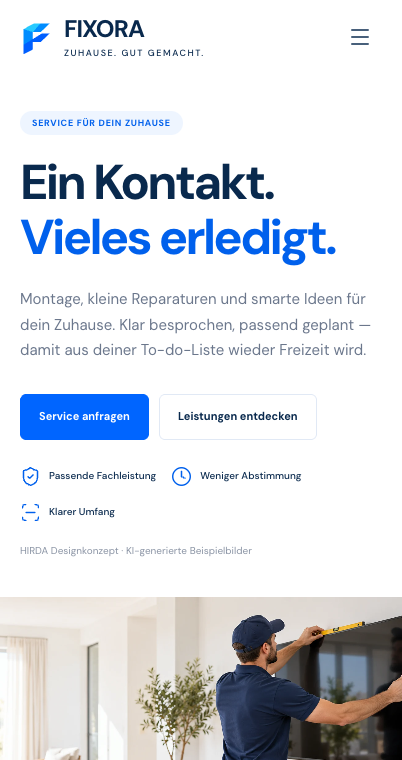
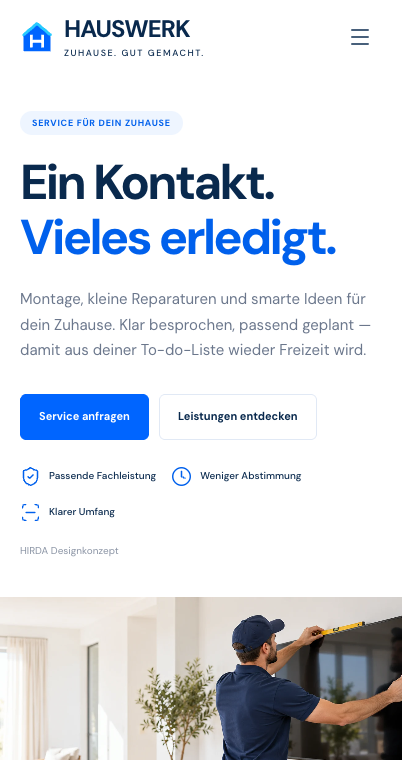
Rename Fixora to Hauswerk and add the house emblem

diff --git a/apps/homeservice/src/data/site.ts b/apps/homeservice/src/data/site.ts
@@ -1,7 +1,7 @@
 import type {TradeSite} from '../../../../packages/ui/trade-types';
 export const site = {
   "kind": "homeservice",
-  "name": "FIXORA",
+  "name": "HAUSWERK",
   "tagline": "Zuhause. Gut gemacht.",
   "eyebrow": "Service für dein Zuhause",
   "headline": [
@@ -10,63 +10,63 @@ export const site = {
   ],
   "description": "Montage, kleine Reparaturen und smarte Ideen für dein Zuhause. Klar besprochen, passend geplant — damit aus deiner To-do-Liste wieder Freizeit wird.",
   "hero": "handyman.webp",
-  "heroAlt": "KI-Visualisierung: ein Monteur richtet einen Fernseher in einem hellen Wohnzimmer aus",
+  "heroAlt": "ein Monteur richtet einen Fernseher in einem hellen Wohnzimmer aus",
   "servicesTitle": "Guter Service für jeden Raum.",
-  "servicesIntro": "Von der ersten Schraube bis zum letzten Handgriff.",
+  "servicesIntro": "Nicht jede Aufgabe braucht ein großes Projekt. Aber jede braucht einen klaren Umfang, passendes Werkzeug und einen sauberen Abschluss.",
   "services": [
     {
       "icon": "tv",
       "title": "TV-Montage",
-      "text": "Halterung und Wandbeschaffenheit vorab besprechen."
+      "text": "Bildhöhe, Halterung und Wandaufbau müssen zusammenpassen. Vor der Montage werden Befestigung, Kabelweg und Gerätegewicht geklärt."
     },
     {
       "icon": "armchair",
       "title": "Möbelmontage",
-      "text": "Regale und Möbel nach deinen Anforderungen planen."
+      "text": "Vom Regal bis zum Sideboard: Modell, Stellplatz und Lieferumfang vorab nennen. Für hohe Möbel wird die passende Kippsicherung mitgedacht."
     },
     {
       "icon": "wifi",
       "title": "Smart Home",
-      "text": "Geräte und Einrichtung aufeinander abstimmen."
+      "text": "Licht, Lautsprecher oder vernetzte Geräte im Alltag sinnvoll verbinden. Vorher werden Hersteller, WLAN und gewünschte Bedienung geklärt."
     },
     {
       "icon": "door-open",
       "title": "Türen & Fenster",
-      "text": "Kleine Einstell- und Instandhaltungsarbeiten prüfen."
+      "text": "Eine klemmende Tür oder ein schwer laufendes Fenster braucht zuerst einen Blick auf Beschläge und Zustand. Der passende Eingriff wird abgestimmt."
     },
     {
       "icon": "panels-top-left",
       "title": "Wand & Oberfläche",
-      "text": "Kleinere Ausbesserungen passend zum Material."
+      "text": "Bohrlöcher, kleine Macken und Übergänge sorgfältig ausbessern. Untergrund, Farbe und gewünschtes Finish bestimmen den Aufwand."
     },
     {
       "icon": "lightbulb",
       "title": "Leuchtenmontage",
-      "text": "Elektrische Arbeiten nur mit passend qualifiziertem Fachpersonal."
+      "text": "Leuchte, Deckenhöhe und Befestigung gemeinsam prüfen. Der elektrische Anschluss erfolgt ausschließlich durch entsprechend qualifizierte Fachkräfte."
     },
     {
       "icon": "droplet",
       "title": "Bad & Küche",
-      "text": "Die richtige Fachleistung für deine Aufgabe finden."
+      "text": "Silikonfuge, Zubehör oder kleine Montageaufgabe? Beschreibe das Detail. Arbeiten an Wasserinstallationen werden einem passenden Fachbetrieb zugeordnet."
     },
     {
       "icon": "wind",
       "title": "Lüftung & Komfort",
-      "text": "Montagebedarf und Geräteanforderungen klären."
+      "text": "Geräte, Maße und Montageort vorab klären. So lässt sich einschätzen, welches Zubehör und welche Fachleistung tatsächlich benötigt werden."
     },
     {
       "icon": "paint-roller",
       "title": "Farbe & Finish",
-      "text": "Kleine Malerarbeiten und optische Ausbesserungen."
+      "text": "Ein sauberer Übergang macht oft den Unterschied. Fläche, vorhandener Anstrich und Farbton werden vor kleineren Malerarbeiten abgestimmt."
     },
     {
       "icon": "wrench",
       "title": "Kleine Reparaturen",
-      "text": "Einzelne Aufgaben gesammelt anfragen."
+      "text": "Griff locker, Regal schief, Scharnier verstellt: Mehrere kleine Aufgaben lassen sich für einen möglichen Besuch gemeinsam erfassen."
     }
   ],
   "aboutTitle": "Zuverlässig gedacht. Persönlich gemacht.",
-  "aboutText": "Einfach beschreiben, was ansteht. Dieses Servicekonzept verbindet eine klare Leistungsauswahl mit einer verständlichen Anfrage — ohne endlose Formulare.",
+  "aboutText": "Dein Zuhause steckt voller kleiner Aufgaben, für die im Alltag die Zeit fehlt. Hauswerk macht daraus eine übersichtliche Liste: Was soll montiert, angepasst oder repariert werden? Zusammenhängende Arbeiten werden gebündelt; Material, Zugang und nötige Fachqualifikation werden vorab geklärt.",
   "aboutPoints": [
     "Montage & Reparatur",
     "Kleine Aufgaben bündeln",
@@ -109,25 +109,29 @@ export const site = {
     {
       "icon": "sliders-horizontal",
       "title": "Service wählen",
-      "text": "Wähle, wobei du Unterstützung suchst."
+      "text": "Die passende Leistung auswählen und mehrere kleine Aufgaben bei Bedarf zusammenfassen."
     },
     {
       "icon": "calendar-days",
       "title": "Wunsch beschreiben",
-      "text": "Ergänze Ort, Umfang und deine Idee."
+      "text": "Gerätemodell, Maße und vorhandenes Material ergänzen. Keine vertraulichen Unterlagen in diese Demo eingeben."
     },
     {
       "icon": "users",
       "title": "Details klären",
-      "text": "So könnte die persönliche Abstimmung aussehen."
+      "text": "Bei einem echten Auftrag würden Machbarkeit, benötigtes Material und Kosten vor dem Termin persönlich abgestimmt."
     },
     {
       "icon": "circle-check",
       "title": "Entwurf prüfen",
-      "text": "Teste die Vorschau ohne echten Versand."
+      "text": "In dieser Demo siehst du einen Entwurf deiner Anfrage. Es wird nichts verschickt oder verbindlich beauftragt."
     }
   ],
   "faq": [
+    [
+      "Kann ich mehrere kleine Aufgaben zusammen anfragen?",
+      "Ja. Eine Liste mit Raum, Aufgabe und vorhandenem Material erleichtert die Abstimmung. Ob alles in einem Besuch möglich wäre, hängt vom Umfang und den benötigten Fachkenntnissen ab."
+    ],
     [
       "Sind Elektro- und Sanitärarbeiten immer enthalten?",
       "Nein. Je nach Aufgabe sind entsprechend qualifizierte oder zugelassene Fachbetriebe erforderlich. Das Demo-Konzept bestätigt keine Ausführung."
